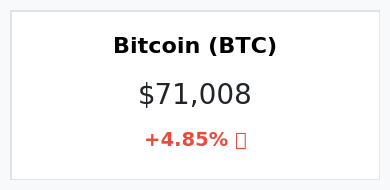
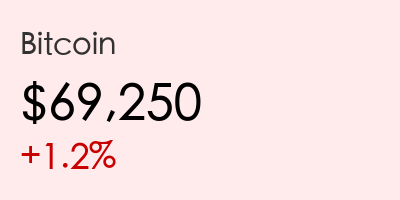
Auto-update: 2026-03-10 09:47 market report

Changed region(s): [[0.0, 0.0526, 0.9846, 0.9474], [0.3692, 0.6842, 0.5846, 0.7895], [0.5846, 0.6842, 0.6462, 0.7895]]

diff --git a/reports/2026-03-10-morning.md b/reports/2026-03-10-morning.md
@@ -1,50 +1,69 @@
-# 每日市场核心简报 (2026-03-10 早报)
+# 全球市场晨报：特朗普“一句话”逆转“疯狂星期一”，油价高台跳水
 
-## 隔夜全球市场概览
-
-周一（3月9日），美股市场上演惊天逆转。开盘受中东局势升级影响大幅跳空低开，随后在特朗普总统关于战争“基本结束”的言论刺激下，能源市场剧烈回吐涨幅，三大股指集体反弹收涨。
-
-![隔夜核心数据](../images/charts/2026-03-10-morning-chart.png)
-
-### 核心指数表现
-*   **S&P 500**: **6,795.99** (+0.83%)
-*   **Nasdaq Composite**: **22,695.95** (+1.38%)
-*   **Dow Jones**: **47,740.80** (+0.50%)
-*   **WTI 原油**: **$94.77** (冲高回落)
-*   **10年期美债收益率**: **4.133%**
-
-### 核心解读与市场洞察
-> **1. 地缘政治驱动的“过山车”行情**：
-> 交易时段初期，由于中东地区涉及美国、以色列和伊朗的冲突，布伦特原油一度冲高至 **$119.50/桶**，引发全球通胀担忧。然而，下午盘特朗普总统的乐观言论以及G7能源部长释放战略石油储备（SPR）的信号，导致油价暴跌回 **$90** 区间。伊朗方面，**Mojtaba Khamenei** 被任命为新任最高领袖，这一重大人事更迭也成为市场关注的焦点。
->
-> **2. 劳动力市场降温与加息预期的博弈**：
-> 投资者仍在消化上周五非农数据。2月新增就业减少 **9.2万**，失业率升至 **4.4%**。在通常情况下这被视为利空，但在通胀高企的背景下，劳动力市场的降温反而给了美联储未来可能的政策转圜空间，科技股受此提振表现强劲。
->
-> **3. 避险情绪的暂时降温**：
-> 美债收益率在油价冲顶时一度飙升，10年期收益率最高触及 **4.21%**，但随后回落至 **4.133%** 附近。金价在避险情绪消退和收益率波动的双重影响下，从 **$5,192** 高位回撤至 **$5,102.60**。
+**日期：2026年03月10日 (星期二)**  
+**时段：上午 (国际市场隔夜复盘)**
 
 ---
 
-## 加密货币市场动态
+## 1. 全球核心指数表现 (3月9日收盘)
 
-加密市场目前处于“脆弱的平衡”状态，正试图从油价冲击和宏观压力中恢复，并展现出优于黄金的避险属性。
+隔夜美股上演了戏剧性的“深V”大反转。受地缘政治局势变动影响，三大股指全线转涨。
 
-*   **Bitcoin (BTC)**: 目前在 **$72,500** 附近波动，24小时涨幅约为 **4.5%**。
-*   **Ethereum (ETH)**: 维持在 **$2,100** 关口上方，今日 14:00 (UTC+8) 将进行网络升级。
-*   **加密总市值**: 约 **$2.29万亿**。
+*   **标普500指数 (S&P 500)**：报收 **6,795.99** 点，上涨 **55.97** 点 (+0.83%)。
+*   **纳斯达克综合指数 (Nasdaq)**：报收 **22,695.95** 点，上涨 **308.27** 点 (+1.38%)。
+*   **道琼斯工业平均指数 (Dow Jones)**：报收 **47,740.80** 点，上涨 **239.25** 点 (+0.50%)。
 
-### 核心动态
-> **1. “稀缺性叙事”强化**：
-> 比特币网络即将迎来第 **2000万枚** 币的产生（预计3月11-15日间），这将使流通量达到总量的 95.24%，长期持有者的信心在市场波动中表现坚挺。
->
-> **2. 政策与宏观利好**：
-> 特朗普总统近期表达了对美国国债支持的稳定币的支持，旨在让美国成为“加密资本”。尽管由于油价波动导致的通胀担忧使降息预期可能推迟，但 BTC 已成功从 $65,000 的支撑位大幅反弹。
+![S&P 500](../images/charts/sp500_card.png)
+![Nasdaq](../images/charts/nasdaq_card.png)
+![Dow Jones](../images/charts/dow_card.png)
 
----
-
-## 市场情绪插图
-![情绪插画](../images/manga/2026-03-10-morning-manga.png)
+> **深度解读**：
+> 市场开盘时曾极度恐慌，道指一度重挫近 **900** 点。然而，随着特朗普总统在盘中表示与伊朗的冲突“基本结束 (very complete)”，市场情绪瞬间逆转。这一言论引发了最后1小时的报复性拉升。
 
 ---
 
-免责声明：内容仅供参考，不构成投资建议。
+## 2. 大宗商品与债市动态
+
+*   **WTI原油**：波动剧烈，从盘中近 **$120** 的高点回落至 **$86.24** 美元 (-8.5% 从日内高点)。
+*   **现货黄金**：小幅回落至 **$5,133** 美元/盎司。
+*   **美债10年期收益率**：上升至 **4.15%** 附近，通胀担忧仍然挥之不去。
+
+![WTI Oil](../images/charts/oil_card.png)
+![Gold](../images/charts/gold_card.png)
+![Treasury](../images/charts/treasury_card.png)
+
+> **深度解读**：
+> “油价过山车”反映了市场对霍尔木兹海峡封锁风险的定价。在外交缓和预期下，原油多头发生踩踏。但由于上周非农数据失色（失业率升至 4.4%），“滞胀”阴影依然笼罩在债市上方。
+
+---
+
+## 3. 加密货币市场
+
+*   **比特币 (BTC)**：目前在 **$69,250** 附近震荡，试图重新夺回 7 万美元大关。
+*   **以太坊 (ETH)**：由于今日（3月10日）将进行重要的网络升级，各大交易所已暂时关闭充提服务。
+
+![Bitcoin](../images/charts/btc_card.png)
+
+> **深度解读**：
+> 比特币表现出了一定的“数字黄金”韧性。在极端恐慌指数触及 8 (极度恐惧) 之后，买盘开始介入。市场正屏息以待今日下午的以太坊升级表现。
+
+---
+
+## 4. 市场核心洞察
+
+> **核心观点 1：特朗普言论的“情绪阀门”作用**  
+> 市场目前处于极度敏感期，总统的非正式表态直接主导了隔夜数百亿美元的资金流向，这显示出地缘政治逻辑已完全凌驾于基本面之上。
+
+> **核心观点 2：科技股的“避风港”效应**  
+> 以英伟达 (+2.7%) 为首的 AI 龙头在动荡中表现出色，投资者倾向于认为无论地缘政治如何，AI 革命的确定性最高。
+
+> **核心观点 3：通胀与滞胀的博弈**  
+> 尽管油价回调，但服务业通胀和疲软的就业数据正在让美联储陷入两难。目前市场已将 2026 年首次降息的预期推迟到了 9 月。
+
+---
+
+## 今日市场情绪插画
+![Market Sentiment](../images/manga/2026-03-10-morning-manga.png)
+
+---
+*免责声明：内容仅供参考，不构成投资建议。*

diff --git a/reports/index.md b/reports/index.md
@@ -4,4 +4,9 @@
 
 ## 报告列表
 
+*   **2026-03-10 上午 (最新)**：[特朗普“一句话”逆转“疯狂星期一”，油价高台跳水](./2026-03-10-morning.md)
+*   **2026-03-09 下午**：[国内 A 股震荡收平，等待重磅政策定调](./2026-03-09-evening.md)
+*   **2026-03-09 上午**：[地缘冲突升级，全球原油一度冲破 $110](./2026-03-09-morning.md)
+*   **2026-03-08 下午**：[周日复盘：下周 A 股三大关注点](./2026-03-08-mon-outlook.md)
+
 您可以在侧边栏查看所有历史报告。
